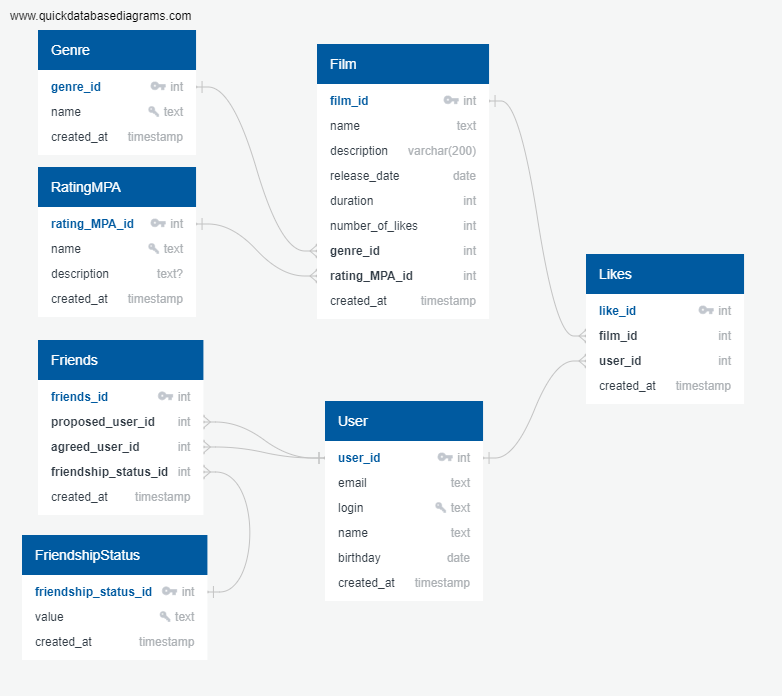
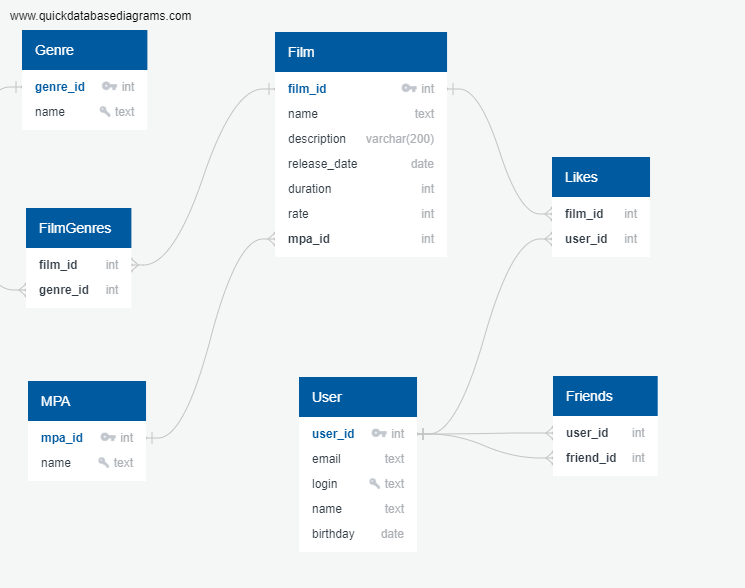
refactor: доработка ER-diargam и README.md

diff --git a/README.md b/README.md
@@ -11,7 +11,6 @@
 * **RatingMPA** - рейтинг, присвоенный MPA
 * **Likes** - информация о лайках пользователей к фильмам
 * **Friends** - информация об отношении дружбы пользователей друг с другом
-* **FriendshipStatus** - статусы отношения дружбы ('waiting' , 'agree')
 
 ### Связи между моделями (ER-diagram)
 ![ER diagram](filmorate_ER_diagram.png)
@@ -28,7 +27,7 @@ FROM film;
 SELECT film_id,
        name
 FROM film
-ORDER BY number_of_likes DESC
+ORDER BY rate DESC
 LIMIT 10;
 ```
 
@@ -44,11 +43,7 @@ WHERE user_id=17;
 SELECT u.user_id,
        u.login
 FROM user u
-INNER JOIN friends f
-    ON u.user_id = f.agreed_user_id AND f.proposed_user_id = 17 OR
-       u.user_id = f.proposed_user_id AND f.agreed_user_id = 17 
-INNER JOIN friendshipstatus fs
-    ON f.friendship_status_id = fs.friendship_status_id AND fs.value = 'agree';
+INNER JOIN friends f ON f.user_id = 17 AND u.user_id = f.friend_id;
 ```
 
 * Получение списка общих друзей (id и login) пользователей с id=3 и id=17
@@ -56,13 +51,8 @@ INNER JOIN friendshipstatus fs
 SELECT u.user_id,
        u.login
 FROM user u
-INNER JOIN friends f
-    ON (u.user_id = f.agreed_user_id AND f.proposed_user_id = 17 OR
-       u.user_id = f.proposed_user_id AND f.agreed_user_id = 17) AND
-       (u.user_id = f.agreed_user_id AND f.proposed_user_id = 3 OR
-       u.user_id = f.proposed_user_id AND f.agreed_user_id = 3)
-INNER JOIN friendshipstatus fs
-    ON f.friendship_status_id = fs.friendship_status_id AND fs.value = 'agree';
+INNER JOIN friends f ON (f.user_id = 3 AND u.user_id = f.friend_id) AND
+                        (f.user_id = 17 AND u.user_id = f.friend_id);
 ```
 
 ### Пользовательские роли
@@ -85,11 +75,20 @@ INNER JOIN friendshipstatus fs
 (каждый пользователь может поставить лайк фильму один раз)
 * получение указанного количества наиболее популярных фильмов по количеству лайков (по умолчанию - 10 фильмов)
 
-**Отношения дружбы между пользователями**
-* приглашение пользователем другого пользователя в друзья (неподтверждённая дружба)
-* согласие на дружбу с другим пользователем (подтверждённая дружба)
+**Односторонняя дружба между пользователями (по принципу подписки)**
+* приглашение другого пользоателя в друзья и удаление его из списка своих друзей
+  (согласие на дружбу с другим пользователем не требуется;
+  приглашение в друзья означает, что приглашенный становится другом пригласившего, но не наоборот)
 * получение списка друзей пользователя по его id
 * получение списка общих друзей двух пользователей
+
+**Жанры**
+* получение списка всех жанров
+* получение жанра по его id
+
+**Рейтинг MPA**
+* получение списка всех видов рейтинга MPA
+* получение рейтинга MPA по его id
 
 ## Технологии в проекте
 * Java v.11.0.16
